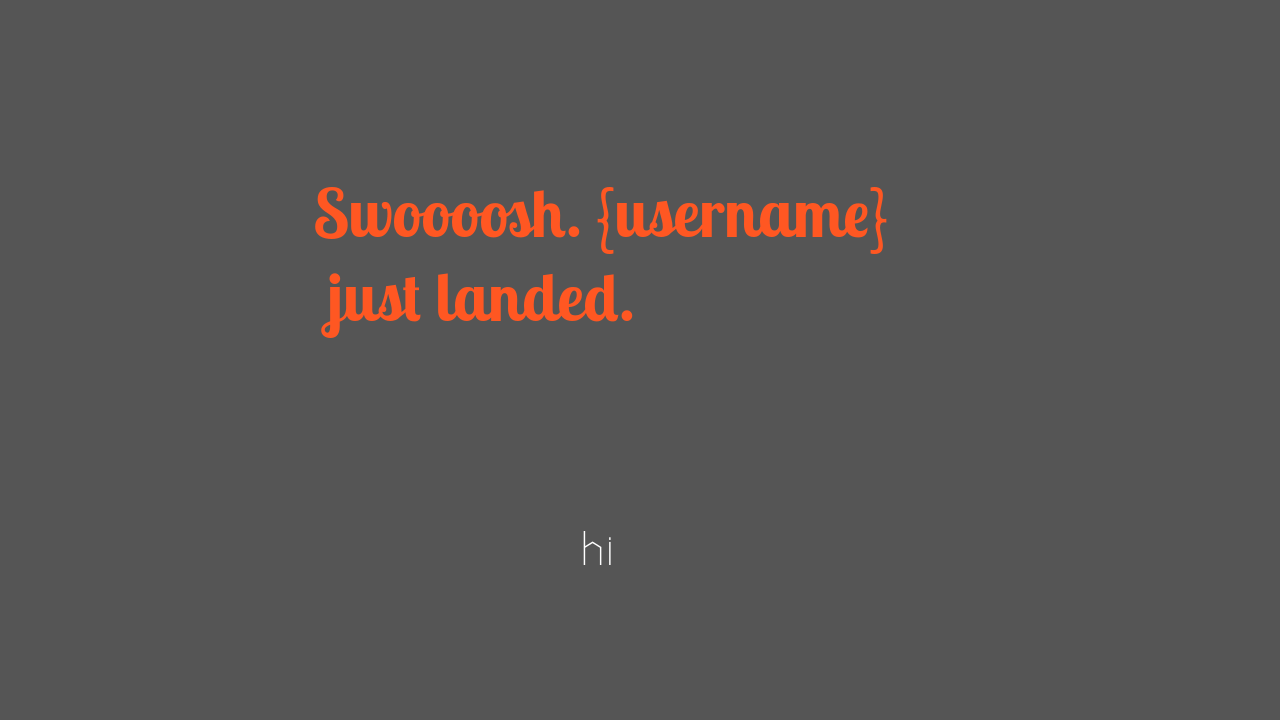
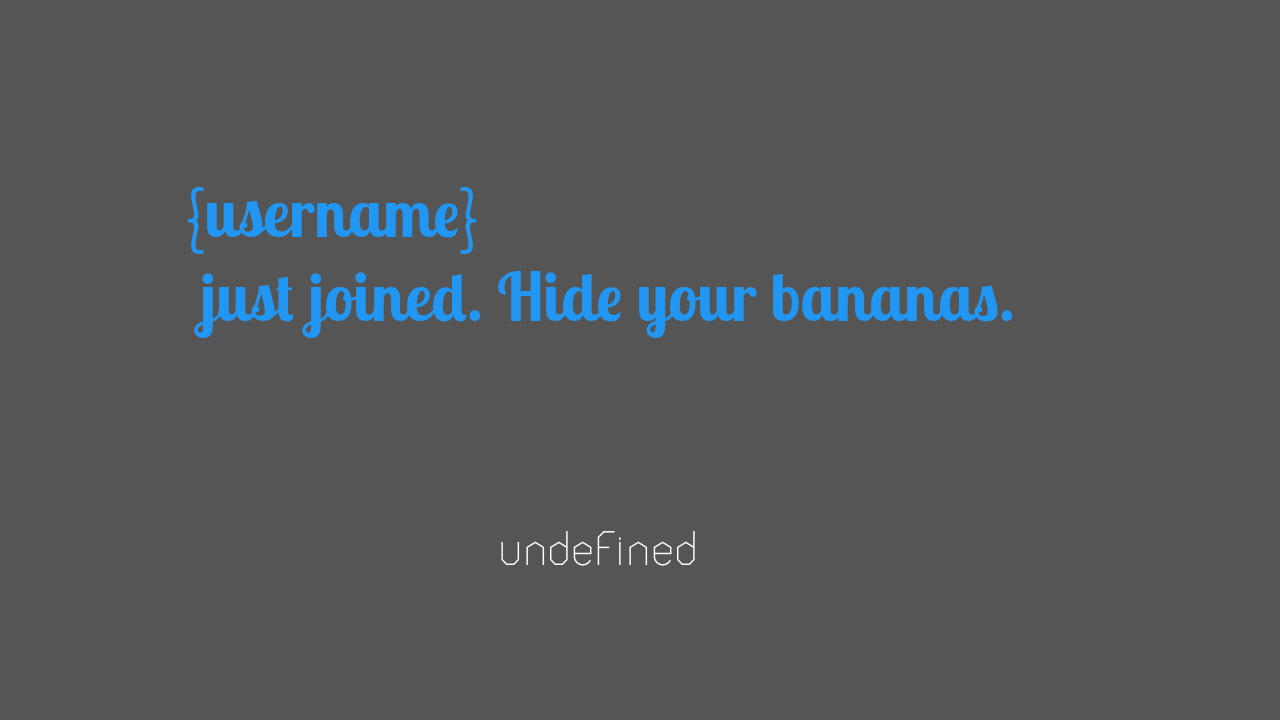
🎮Últrðñ™-v2

Changed region(s): [[0.1562, 0.3667, 0.8125, 0.4889], [0.125, 0.2444, 0.6875, 0.3361], [0.4062, 0.7333, 0.5312, 0.7944]]

diff --git a/🎮Últrðñ™.js b/🎮Últrðñ™.js
@@ -15,6 +15,19 @@ const Cyborgsql = UltronSitreper.POSTQL;
 const Kolor = require(`chalk`);
 const fs = require(`fs`);
 console.clear();
+var randomMC = require('random-material-color');
+var rg = require('random-greetings');
+const {
+  registerFont,
+  createCanvas,
+  loadImage
+} = require(`canvas`);
+registerFont(`./Últrðñ/Honeycomb-Round.otf`, {
+  family: `Honeycomb`,
+});
+registerFont(`./Últrðñ/LobsterTwo-Bold.ttf`, {
+  family: `Lobster`,
+});
 // ===============================================================================
 // 🎮Últrðñ™ 𝘈𝘥𝘷𝘢𝘯𝘤𝘦 𝘞𝘩𝘢𝘵𝘴𝘢𝘱𝘱 𝘜𝘴𝘦𝘳𝘣𝘰𝘵 𝘞𝘪𝘵𝘩 80+ 𝘊𝘰𝘮𝘮𝘢𝘯𝘥𝘴 𝘧𝘰𝘳 𝘣𝘰𝘵𝘩 𝘗𝘳𝘪𝘷𝘢𝘵𝘦 𝘢𝘯𝘥 𝘗𝘶𝘣𝘭𝘪𝘤..
 // ===============================================================================
@@ -70,8 +83,6 @@ async function CyborgRunner() {
     // ===============================================================================
     // 🎮Últrðñ™ 𝘈𝘥𝘷𝘢𝘯𝘤𝘦 𝘞𝘩𝘢𝘵𝘴𝘢𝘱𝘱 𝘜𝘴𝘦𝘳𝘣𝘰𝘵 𝘞𝘪𝘵𝘩 80+ 𝘊𝘰𝘮𝘮𝘢𝘯𝘥𝘴 𝘧𝘰𝘳 𝘣𝘰𝘵𝘩 𝘗𝘳𝘪𝘷𝘢𝘵𝘦 𝘢𝘯𝘥 𝘗𝘶𝘣𝘭𝘪𝘤..
     // ===============================================================================
-    // console.log(Kolor.yellowBright.bold(`----------------------------------------|  Últrðñ  |`));
-    // console.log(UltronSitreper.ULTRON);
     console.log(Kolor.yellowBright.bold(`----------------------------------------|  Últrðñ  |`));
     console.log(UltronSitreper.IMDB);
     console.log(Kolor.yellowBright.bold(`----------------------------------------|  Últrðñ  |`));
@@ -117,19 +128,75 @@ ______/ |__/    ___/  |__/        ______/ |__/  |__/`),
         if (enable === false || enable === `OFF`) {
           return;
         }
-        var Msg = await Welcmr.getMessage(groupId, `welcome`);
-        ӄʀǟӄɨռʐ.sendMessage(groupId, Msg.message, MessageType.text);
+        var greets = [
+          `{username}\n just joined the server - glhf!`,
+          `{username}\n just joined. Everyone, look busy!`,
+          `{username}\n just joined. Can I get a heal?`,
+          `{username}\n joined your party.`,
+          `{username}\n joined. You must construct additional pylons.`,
+          `Ermagherd. {username}\n is here.`,
+          `Welcome, {username}\n. Stay awhile and listen.`,
+          `Welcome, {username}\n. We were expecting you ( ͡° ͜ʖ ͡°)`,
+          `Welcome, {username}\n. We hope you brought pizza.`,
+          `Welcome {username}\n. Leave your weapons by the door.`,
+          `A wild {username}\n appeared.`,
+          `Swoooosh. {username}\n just landed.`,
+          `Brace yourselves. {username}\n just joined the server.`,
+          `{username}\n just joined. Hide your bananas.`,
+          `{username}\n just arrived. Seems OP - please nerf.`,
+          `{username}\n just slid into the server.`,
+          `A {username}\n has spawned in the server.`,
+          `Big {username}\n showed up!`,
+          `Where’s {username}\n? In the server!`,
+          `{username}\n hopped into the server. Kangaroo!!`,
+          `{username}\n just showed up. Hold my beer.`,
+        ];
+        var Fetched = await Welcmr.getMessage(groupId, `welcome`);
+        const width = 1280;
+        const height = 720;
+        const canvas = createCanvas(width, height);
+        const context = canvas.getContext(`2d`);
+        context.fillStyle = `#555555`;
+        context.fillRect(0, 0, width, height);
+        context.font = `bold 50pt Lobster`;
+        context.textAlign = `center`;
+        context.textBaseline = `top`;
+        const text = greets[Math.floor(Math.random() * aryy.length)];
+        const textWidth = context.measureText(text).width;
+        context.fillRect(600 - textWidth / 2 - 10, 170 - 5, textWidth + 20, 120);
+        const text2 = Fetched.message;
+        context.fillStyle = randomMC.getColor();
+        context.fillText(text, 600, 170);
+        context.fillStyle = `#fff`;
+        context.font = `bold 30pt Honeycomb`;
+        context.fillText(text2, 600, 530);
+        const myimg = loadImage(`./Últrðñ/Últrðñ-Welcmr.png`)
+        await myimg.then(() => {
+          const buffer = canvas.toBuffer(`image/png`);
+          fs.writeFileSync(`./Últrðñ/Últrðñ-Welcmr.png`, buffer);
+          ӄʀǟӄɨռʐ.sendMessage(
+            Últrðñ.chatId, {
+              url: `./Últrðñ/Últrðñ-Welcmr.png`
+            },
+            MessageType.image, {
+              mimetype: Mimetype.png,
+              caption: `
+➛➛➛➛➛➛➛➛➛➛➛➛➛➛➛➛➛➛➛➛➛
+*🖥PostSql➛* ${Fetched.message}`
+            }
+          );
+        });
         return;
       } else if (update.action === `remove`) {
         var enable = await Welcmr.checkSettings(groupId, `goodbye`);
         if (enable === false || enable === `OFF`) {
           return;
         }
-        var Msg = await Welcmr.getMessage(groupId, `goodbye`);
-        return ӄʀǟӄɨռʐ.sendMessage(groupId, Msg.message, MessageType.text);
+        var Fetched = await Welcmr.getMessage(groupId, `goodbye`);
+        return ӄʀǟӄɨռʐ.sendMessage(groupId, Fetched.message, MessageType.text);
       }
     } catch (cᴇʀʀᴏʀ) {
-      console.log(`Greeting message are off`);
+      console.log(`Greeting messages are off`);
     }
   });
   // ===============================================================================

diff --git a/gen.js b/gen.js
@@ -54,7 +54,6 @@ module.exports = {
             const height = 720;
             const canvas = createCanvas(width, height);
             const context = canvas.getContext(`2d`);
-            // ➛➛➛➛➛➛➛➛➛➛➛➛➛➛➛➛➛➛➛➛➛➛➛➛➛➛➛➛➛➛➛➛➛➛➛➛➛➛➛➛➛➛➛➛
             context.fillStyle = `#555555`;
             context.fillRect(0, 0, width, height);
             context.font = `bold 50pt Lobster`;
@@ -63,19 +62,16 @@ module.exports = {
             const text = aryy[Math.floor(Math.random() * aryy.length)];
             const textWidth = context.measureText(text).width;
             context.fillRect(600 - textWidth / 2 - 10, 170 - 5, textWidth + 20, 120);
-            // ➛➛➛➛➛➛➛➛➛➛➛➛➛➛➛➛➛➛➛➛➛➛➛➛➛➛➛➛➛➛➛➛➛➛➛➛➛➛➛➛➛➛➛➛
             const text2 = rg.greet();
             context.fillStyle = randomMC.getColor();
             context.fillText(text, 600, 170);
             context.fillStyle = `#fff`;
             context.font = `bold 50px Honeycomb`;
             context.fillText(text2, 600, 530);
-            // ➛➛➛➛➛➛➛➛➛➛➛➛➛➛➛➛➛➛➛➛➛➛➛➛➛➛➛➛➛➛➛➛➛➛➛➛➛➛➛➛➛➛➛➛
             const myimg = loadImage(`./Últrðñ/Últrðñ-Welcmr.png`)
             await myimg.then(() => {
                 const buffer = canvas.toBuffer(`image/png`);
                 fs.writeFileSync(`./Últrðñ/Últrðñ-Welcmr.png`, buffer);
-                // ➛➛➛➛➛➛➛➛➛➛➛➛➛➛➛➛➛➛➛➛➛➛➛➛➛➛➛➛➛➛➛➛➛➛➛➛➛➛➛➛➛➛➛➛
                 ӄʀǟӄɨռʐ.sendMessage(
                     Últrðñ.chatId, {
                         url: `./Últrðñ/Últrðñ-Welcmr.png`
@@ -83,20 +79,8 @@ module.exports = {
                     MessageType.image, {
                         mimetype: Mimetype.png,
                         caption: `
-⚙Mode: _Dev-Debugger_
-
-➛➛➛➛➛➛➛➛➛➛➛➛➛➛➛➛➛➛
-🖥PostSql:
-{
-    Fetched.switched: ${Fetched.switched}
-}
-
-➛➛➛➛➛➛➛➛➛➛➛➛➛➛➛➛➛➛
-💡Means: _It means That When the client didn't send anything for #setwelcome <message>,
-An autogenerated Welcome Sub-Text will be sent_
-
-➛➛➛➛➛➛➛➛➛➛➛➛➛➛➛➛➛➛
-🐞Example: See Image Attached`
+➛➛➛➛➛➛➛➛➛➛➛➛➛➛➛➛➛➛➛➛➛
+*🖥PostSql➛* ${Fetched.switched}`
                     }
                 );
             });
@@ -106,7 +90,6 @@ An autogenerated Welcome Sub-Text will be sent_
             const height = 720;
             const canvas = createCanvas(width, height);
             const context = canvas.getContext(`2d`);
-            // ➛➛➛➛➛➛➛➛➛➛➛➛➛➛➛➛➛➛➛➛➛➛➛➛➛➛➛➛➛➛➛➛➛➛➛➛➛➛➛➛➛➛➛➛
             context.fillStyle = `#555555`;
             context.fillRect(0, 0, width, height);
             context.font = `bold 50pt Lobster`;
@@ -115,19 +98,16 @@ An autogenerated Welcome Sub-Text will be sent_
             const text = aryy[Math.floor(Math.random() * aryy.length)];
             const textWidth = context.measureText(text).width;
             context.fillRect(600 - textWidth / 2 - 10, 170 - 5, textWidth + 20, 120);
-            // ➛➛➛➛➛➛➛➛➛➛➛➛➛➛➛➛➛➛➛➛➛➛➛➛➛➛➛➛➛➛➛➛➛➛➛➛➛➛➛➛➛➛➛➛
             const text2 = Fetched.message;
             context.fillStyle = randomMC.getColor();
             context.fillText(text, 600, 170);
             context.fillStyle = `#fff`;
             context.font = `bold 50px Honeycomb`;
             context.fillText(text2, 600, 530);
-            // ➛➛➛➛➛➛➛➛➛➛➛➛➛➛➛➛➛➛➛➛➛➛➛➛➛➛➛➛➛➛➛➛➛➛➛➛➛➛➛➛➛➛➛➛
             const myimg = loadImage(`./Últrðñ/Últrðñ-Welcmr.png`)
             await myimg.then(() => {
                 const buffer = canvas.toBuffer(`image/png`);
                 fs.writeFileSync(`./Últrðñ/Últrðñ-Welcmr.png`, buffer);
-                // ➛➛➛➛➛➛➛➛➛➛➛➛➛➛➛➛➛➛➛➛➛➛➛➛➛➛➛➛➛➛➛➛➛➛➛➛➛➛➛➛➛➛➛➛
                 ӄʀǟӄɨռʐ.sendMessage(
                     Últrðñ.chatId, {
                         url: `./Últrðñ/Últrðñ-Welcmr.png`
@@ -135,26 +115,8 @@ An autogenerated Welcome Sub-Text will be sent_
                     MessageType.image, {
                         mimetype: Mimetype.png,
                         caption: `
-⚙Mode: _Dev-Debugger_
-
-➛➛➛➛➛➛➛➛➛➛➛➛➛➛➛➛➛➛
-🖥PostSql:
-{
-    Fetched.message: ${Fetched.message}
-    Fetched.chat: ${Fetched.chat}
-    Fetched.switched: ${Fetched.switched}
-    Fetched.greetingType: ${Fetched.greetingType}
-    Fetched.id: ${Fetched.id}
-    Fetched.createdAt: ${Fetched.createdAt}
-    Fetched.updatedAt: ${Fetched.updatedAt}
-}
-
-➛➛➛➛➛➛➛➛➛➛➛➛➛➛➛➛➛➛
-💡Means: _It means That When the client set #setwelcome,
-then this will be called!_
-
-➛➛➛➛➛➛➛➛➛➛➛➛➛➛➛➛➛➛
-🐞Example: See Image Attached`
+➛➛➛➛➛➛➛➛➛➛➛➛➛➛➛➛➛➛➛➛➛
+*🖥PostSql➛* ${Fetched.message}`
                     }
                 );
             });
